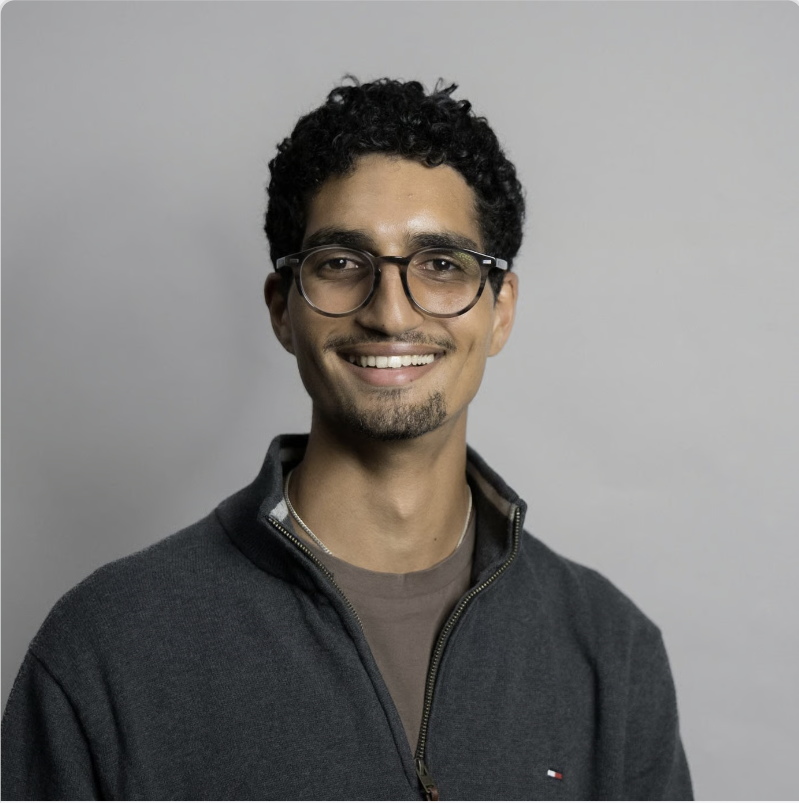
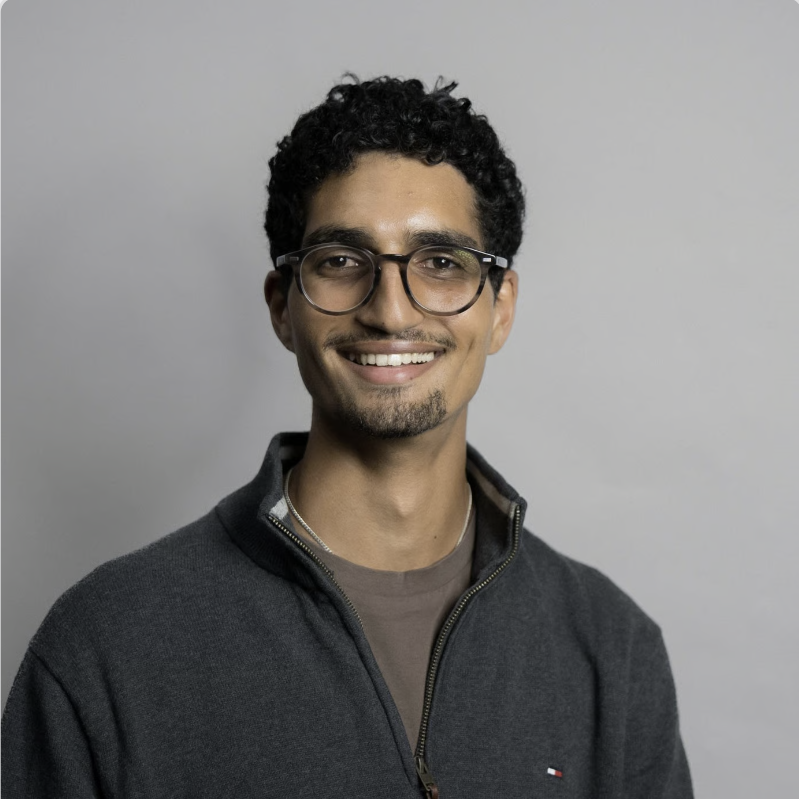
Fix headshot image to be perfectly square
- Crop headshot.png from 799x803 to 799x799
- Update OG image dimensions to match

diff --git a/src/app/layout.tsx b/src/app/layout.tsx
@@ -28,8 +28,8 @@ export const metadata: Metadata = {
     images: [
       {
         url: "/headshot.png",
-        width: 400,
-        height: 400,
+        width: 799,
+        height: 799,
         alt: "Mina Mankarious",
       },
     ],
